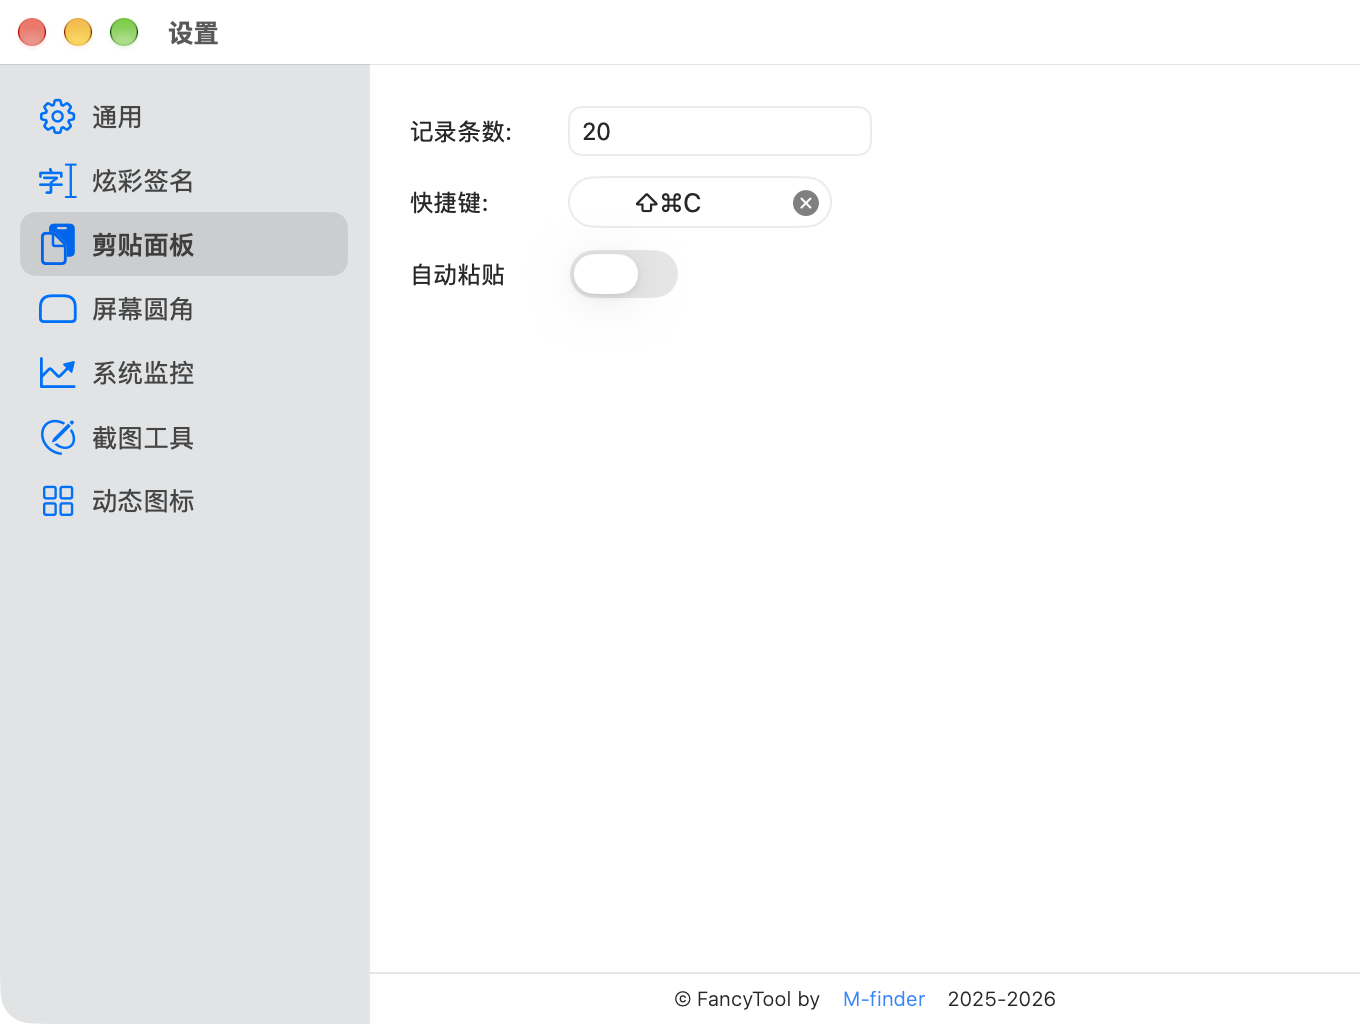
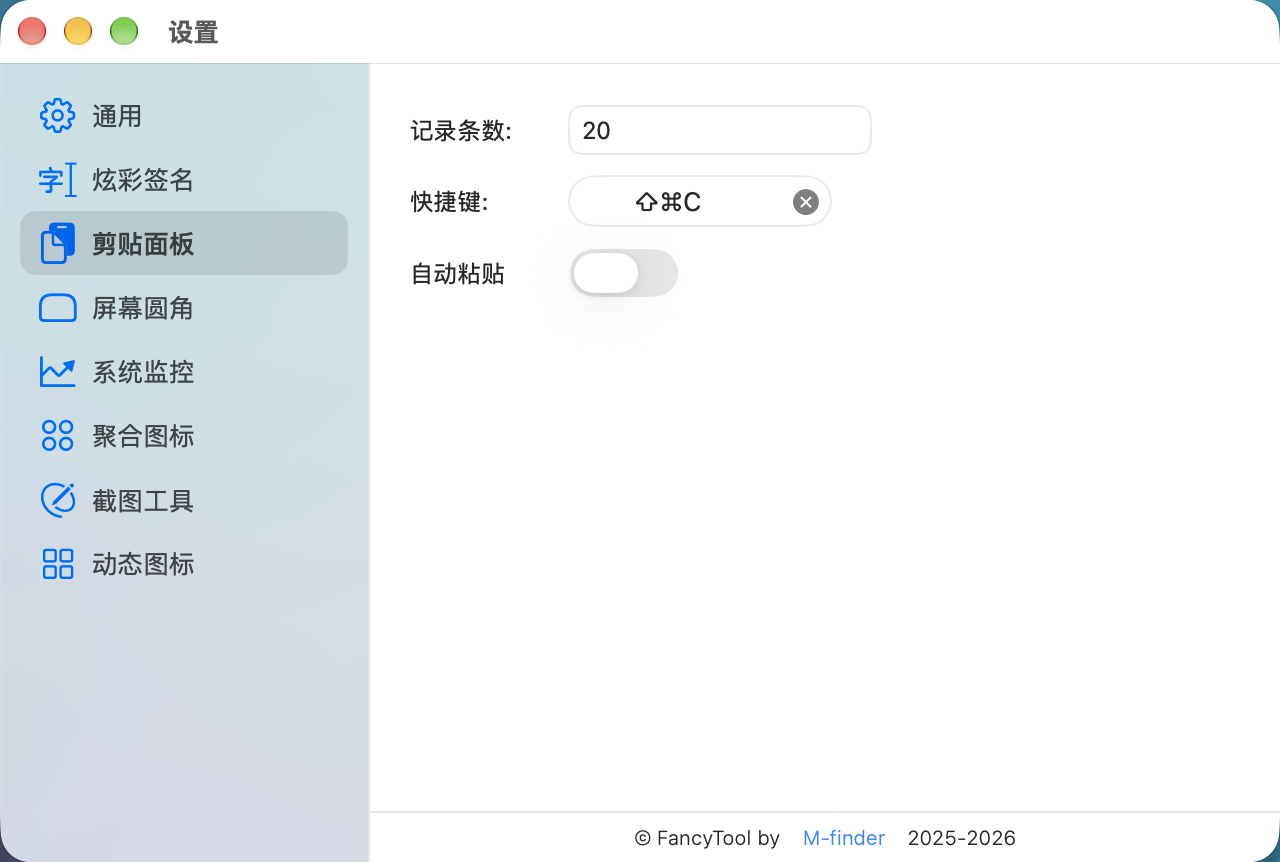
docs: update screenshots for FancyTool 1.0.13

diff --git a/README.en.md b/README.en.md
@@ -16,91 +16,66 @@
 
 <p align="center">macOS 14.6+ · Swift / SwiftUI / AppKit · Free and open source</p>
 
-FancyTool brings colorful text, clipboard history, system monitoring, and screenshots to your menu bar, along with animated icons and a status dog. Enable the modules you need for a lightweight, practical Mac utility with a little personality.
+FancyTool brings colorful text, clipboard history, system monitoring, quick controls, and screenshots to your menu bar, along with animated icons and a status dog. Enable the modules you need for a lightweight, practical Mac utility with a little personality.
 
 ## Screenshots
 
-These screenshots show the development version running on macOS. Images retain their original Retina **2× resolution** and are saved as PNGs. Click an image to view it at full size; only its display size is reduced here.
+Current development build. Click an image to view it at full size.
 
 <table>
-  <tr><th>Colorful text · Texter</th><th>System monitor · Monitor</th></tr>
-  <tr>
-    <td align="center" valign="top"><a href="doc/screenshots/texter@2x.png"><img src="doc/screenshots/texter@2x.png" width="350" alt="Texter panel with text input, shimmer switches, and a color palette"></a></td>
-    <td align="center" valign="top"><a href="doc/screenshots/monitor@2x.png"><img src="doc/screenshots/monitor@2x.png" width="270" alt="Monitor panel with CPU, memory, storage, battery, and network measurements and charts"></a></td>
-  </tr>
-</table>
-
-Texter uses sample text, while Monitor shows live measurements with the local network address hidden. The clipboard panel contains demonstration text and images. Appearance varies with the macOS version and system theme; features in a published build are described in its release notes.
-
-### Menu bar monitoring
-
-The **Colored icons** setting changes only the monitoring icons in the menu bar. Values and the monitor panel retain their existing colors. These images preview the native menu bar content.
-
-<table>
-  <tr><th>Colored icons</th><th>Default colors</th></tr>
-  <tr>
-    <td><a href="doc/screenshots/monitor-menubar-color@2x.png"><img src="doc/screenshots/monitor-menubar-color@2x.png" width="297" alt="Colored CPU, memory, storage, battery, and network icons"></a></td>
-    <td><a href="doc/screenshots/monitor-menubar-default@2x.png"><img src="doc/screenshots/monitor-menubar-default@2x.png" width="297" alt="Monitoring icons using the default color"></a></td>
-  </tr>
+  <tr><th>Texter</th><th>Monitor</th><th>Duo</th></tr>
+  <tr><td align="center" valign="top"><a href="doc/screenshots/texter@2x.png"><img src="doc/screenshots/texter@2x.png" width="300" alt="Texter signature and color controls"></a></td><td align="center" valign="top"><a href="doc/screenshots/monitor@2x.png"><img src="doc/screenshots/monitor@2x.png" width="270" alt="Live system monitoring panel"></a></td><td align="center" valign="top"><a href="doc/screenshots/duo@2x.png"><img src="doc/screenshots/duo@2x.png" width="292" alt="Duo controls for Wi-Fi, Bluetooth, sound, display, and input source"></a></td></tr>
 </table>
 
 ### Clipboard and screenshot tools
 
-<p><a href="doc/screenshots/paster@2x.png"><img src="doc/screenshots/paster@2x.png" width="960" alt="Clipboard panel with search, pinned items, text and image cards, and keyboard shortcuts"></a></p>
+<p><a href="doc/screenshots/paster@2x.png"><img src="doc/screenshots/paster@2x.png" width="960" alt="Clipboard history with search and pinned items"></a></p>
 
-<p><a href="doc/screenshots/shotter@2x.png"><img src="doc/screenshots/shotter@2x.png" width="680" alt="Screenshot editor with rectangle, arrow, and numbered annotations and a separate toolbar"></a></p>
+<p><a href="doc/screenshots/shotter@2x.png"><img src="doc/screenshots/shotter@2x.png" width="680" alt="Screenshot editor with annotation tools"></a></p>
 
 ### Settings
 
 <table>
-  <tr><th>General</th><th>Animated icons · Runner</th></tr>
-  <tr>
-    <td><a href="doc/screenshots/settings-universal@2x.png"><img src="doc/screenshots/settings-universal@2x.png" width="420" alt="General settings for appearance, launch at login, and quitting"></a></td>
-    <td><a href="doc/screenshots/settings-runner@2x.png"><img src="doc/screenshots/settings-runner@2x.png" width="420" alt="Runner settings with GIF selection, custom icons, and the status dog"></a></td>
-  </tr>
+  <tr><th>General</th><th>Runner</th></tr>
+  <tr><td><a href="doc/screenshots/settings-universal@2x.png"><img src="doc/screenshots/settings-universal@2x.png" width="420" alt="General preferences"></a></td><td><a href="doc/screenshots/settings-runner@2x.png"><img src="doc/screenshots/settings-runner@2x.png" width="420" alt="Animated icon and status dog settings"></a></td></tr>
 </table>
 
 <details>
-<summary>Show settings for other modules</summary>
+<summary>Show more settings screenshots</summary>
 
 <table>
-  <tr><th>Colorful text</th><th>Clipboard</th></tr>
-  <tr>
-    <td><a href="doc/screenshots/settings-texter@2x.png"><img src="doc/screenshots/settings-texter@2x.png" width="420" alt="Texter settings for font, size, shimmer, and rainbow shimmer"></a></td>
-    <td><a href="doc/screenshots/settings-paster@2x.png"><img src="doc/screenshots/settings-paster@2x.png" width="420" alt="Clipboard settings for history limits, shortcuts, and automatic paste"></a></td>
-  </tr>
-  <tr><th>System monitor</th><th>Screenshots</th></tr>
-  <tr>
-    <td><a href="doc/screenshots/settings-monitor@2x.png"><img src="doc/screenshots/settings-monitor@2x.png" width="420" alt="Monitor settings with metric switches and colored icons"></a></td>
-    <td><a href="doc/screenshots/settings-shotter@2x.png"><img src="doc/screenshots/settings-shotter@2x.png" width="420" alt="Screenshot settings and shortcut"></a></td>
-  </tr>
-  <tr><th colspan="2">Rounded screen corners</th></tr>
-  <tr><td colspan="2" align="center"><a href="doc/screenshots/settings-rounder@2x.png"><img src="doc/screenshots/settings-rounder@2x.png" width="420" alt="Screen corner radius setting"></a></td></tr>
+  <tr><th>Texter</th><th>Monitor</th></tr>
+  <tr><td><a href="doc/screenshots/settings-texter@2x.png"><img src="doc/screenshots/settings-texter@2x.png" width="420" alt="Signature appearance settings"></a></td><td><a href="doc/screenshots/settings-monitor@2x.png"><img src="doc/screenshots/settings-monitor@2x.png" width="420" alt="Monitor metric settings"></a></td></tr>
+  <tr><th>Duo</th><th>Paster</th></tr>
+  <tr><td><a href="doc/screenshots/settings-duo@2x.png"><img src="doc/screenshots/settings-duo@2x.png" width="420" alt="Duo menu bar settings"></a></td><td><a href="doc/screenshots/settings-paster@2x.png"><img src="doc/screenshots/settings-paster@2x.png" width="420" alt="Clipboard settings"></a></td></tr>
+  <tr><th>Shotter</th><th>Rounder</th></tr>
+  <tr><td><a href="doc/screenshots/settings-shotter@2x.png"><img src="doc/screenshots/settings-shotter@2x.png" width="420" alt="Screenshot shortcut settings"></a></td><td><a href="doc/screenshots/settings-rounder@2x.png"><img src="doc/screenshots/settings-rounder@2x.png" width="420" alt="Screen corner radius setting"></a></td></tr>
 </table>
 
 </details>
 
-The screenshots were captured on macOS 27. Hidder is unavailable on that version and is therefore not shown.
+The interface varies with your macOS version and appearance settings. Hidder is unavailable on macOS 27 and is not shown.
 
 ## Features
 
 | Module | Features |
 | --- | --- |
-| **Texter** | Edit menu bar text, choose gradient colors, and enable shimmer or rainbow shimmer. Select an installed font and font size in Settings. |
+| **Texter** | Edit menu bar text, choose fonts and gradient colors, and add shimmer, rounded or rainbow borders, custom border colors, and a gradient background. |
 | **Paster** | Keep text and image clipboard history, pin items, set a history limit, search by content or source application, and optionally paste automatically. |
-| **Monitor** | Show CPU, memory, storage, battery, and network metrics with optional colored menu bar icons. The panel includes five-minute CPU, memory, and network charts, storage and battery capacity charts, and charging status. |
+| **Monitor** | Show CPU, memory, storage, battery, and network speed as needed, with a compact menu bar layout and a panel of live values and charts. |
+| **Duo** | See battery, Wi-Fi, and sound status in one menu bar item. Control Bluetooth, volume, and display appearance; choose Wi-Fi networks, paired devices, and input sources. |
 | **Shotter** | Capture a region, window, or screen with pixel dimensions shown during selection. Add shapes, arrows, freehand strokes, highlights, text, numbers, and opaque redactions. Adjust colors, line widths, and font sizes; move or delete annotations; undo, redo, pin, copy, or save a full-resolution PNG. |
 | **Runner** | Drop in custom GIFs and adjust playback speed with CPU usage. Enable the status dog to react to system load, charging, and inactivity, with smooth changes in animation speed. |
 | **Rounder** | Add adjustable rounded corners to the screen. |
 | **Hidder** | Collapse or expand menu bar icons using a dot marker. Available on macOS versions earlier than 27. |
 
-The interface supports Simplified Chinese, English, Japanese, Korean, German, and French.
+The interface supports Simplified Chinese, English, Japanese, Korean, German, and French. FancyTool checks for updates once a day, supports manual checks, and shows a menu bar notice when a new version is available.
 
 ## Quick start
 
 1. Download FancyTool from [Releases](https://github.com/m-finder/FancyTool/releases), move it to **Applications**, and launch it.
 2. Open the FancyTool menu in the menu bar and enable the modules you need.
-3. Open **Settings** to configure text fonts and sizes, monitoring metrics, clipboard history limits, shortcuts, animated icons, and the status dog.
+3. Open **Settings** to configure signatures, monitoring, clipboard history, screenshot shortcuts, and animated icons.
 
 ### Common actions
 
@@ -112,7 +87,7 @@ The interface supports Simplified Chinese, English, Japanese, Korean, German, an
 | Change clipboard page | `Tab` / `⇧Tab` |
 | Select a clipboard item on the current page | `⌘1`–`⌘5` |
 | Confirm text and close Texter | Press `Return` in the input field |
-| Close Texter or Monitor | Click its menu bar item again, click outside the panel, or press `Esc` |
+| Close Texter, Monitor, or Duo | Click its menu bar item again, click outside the panel, or press `Esc` |
 | Undo / redo screenshot annotations | `⌘Z` / `⇧⌘Z` |
 | Adjust a screenshot selection | Hold `Shift` to select a square or `Space` to move the selection while dragging; press `Return` to capture the screen under the pointer |
 | Edit screenshot annotations | Press `V` to select or move an annotation, `Delete` to remove it, or arrow keys to nudge it |
@@ -127,6 +102,8 @@ The screenshot toolbar provides colors, line widths, and font sizes. Select an e
 | --- | --- |
 | Screenshots | Screen Recording |
 | Clipboard automatic paste | Accessibility; without it, you can still copy a history item and paste manually |
+| Nearby Wi-Fi networks in Duo | Location Services, requested when you open the network list |
+| Paired Bluetooth devices in Duo | Bluetooth, requested when you open the device list |
 
 Manage these permissions in **System Settings → Privacy & Security**.
 
@@ -135,7 +112,7 @@ Manage these permissions in **System Settings → Privacy & Security**.
 | macOS version | Details |
 | --- | --- |
 | **14.6 or later** | Minimum supported version |
-| **26 or later** | Texter, Monitor, and Paster use native glass materials; earlier versions use a compatible appearance |
+| **26 or later** | Texter, Monitor, Duo, and Paster use native glass materials; earlier versions use a compatible appearance |
 | **27 or later** | Hidder is automatically hidden and disabled |
 
 ## Build from source
